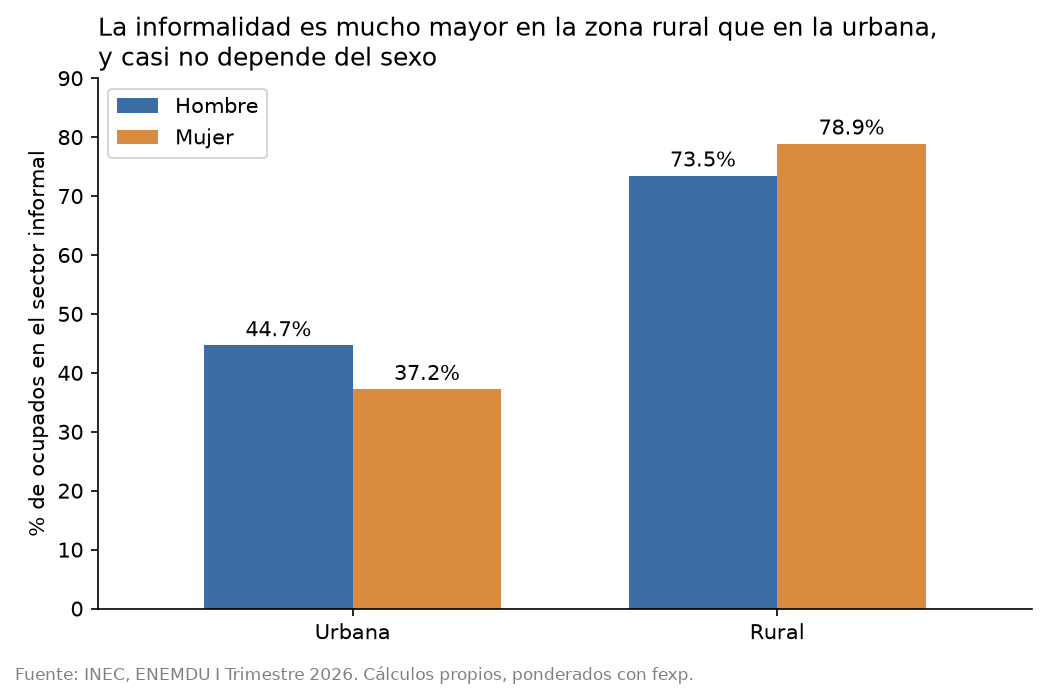
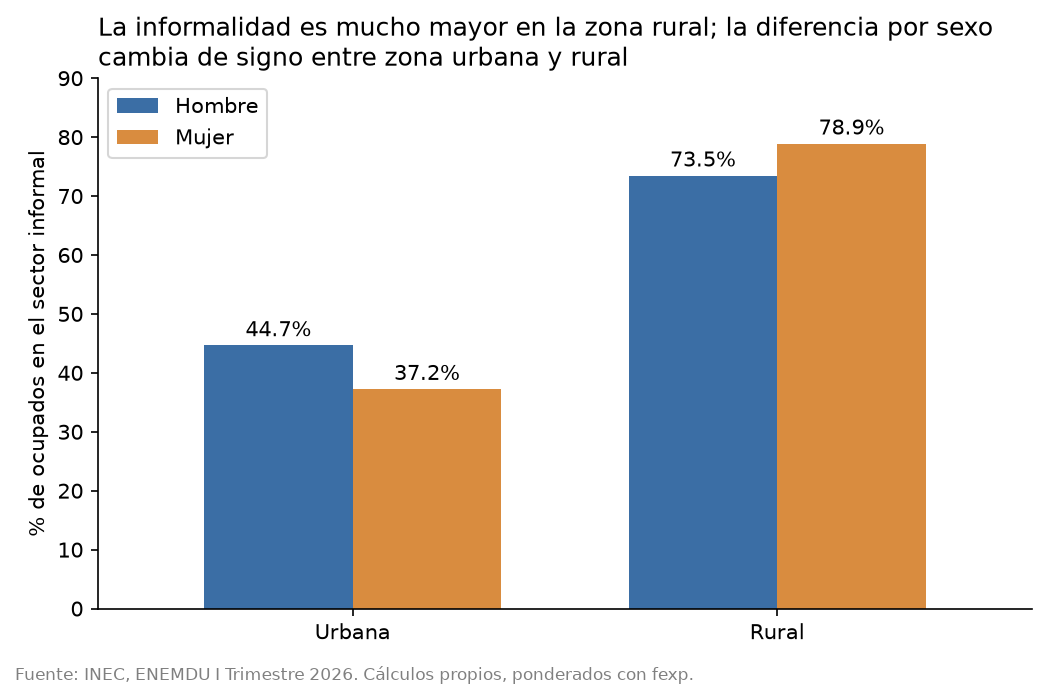
feat: first descriptive charts; fix informality chart title

Changed region(s): [[0.0917, 0.0601, 0.6113, 0.1202], [0.6724, 0.03, 0.9475, 0.0601]]

diff --git a/README.md b/README.md
@@ -68,6 +68,8 @@
 | Mediana de `ingrl` (USD) | 430 | 350 |
 | Media de `ingrl` (USD) | 516,8 | 467,8 |
 
+"El promedio nacional por sexo oculta que la brecha de informalidad tiene signo opuesto en zona urbana (hombres más informales) y rural (mujeres más informales)."
+
 Gráficos, mapas y modelo de ingresos: `[por completar]`.
 
 ## Limitaciones
